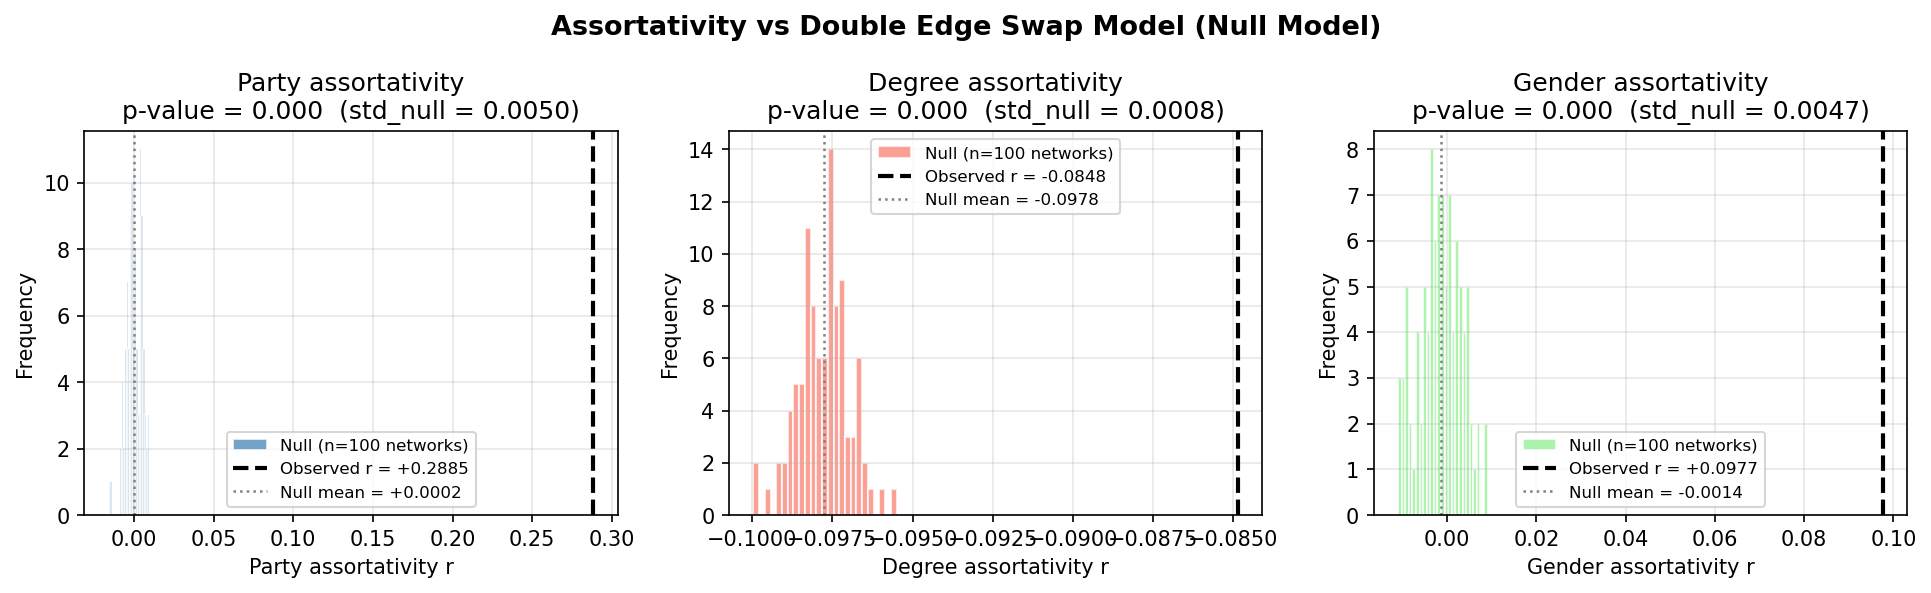
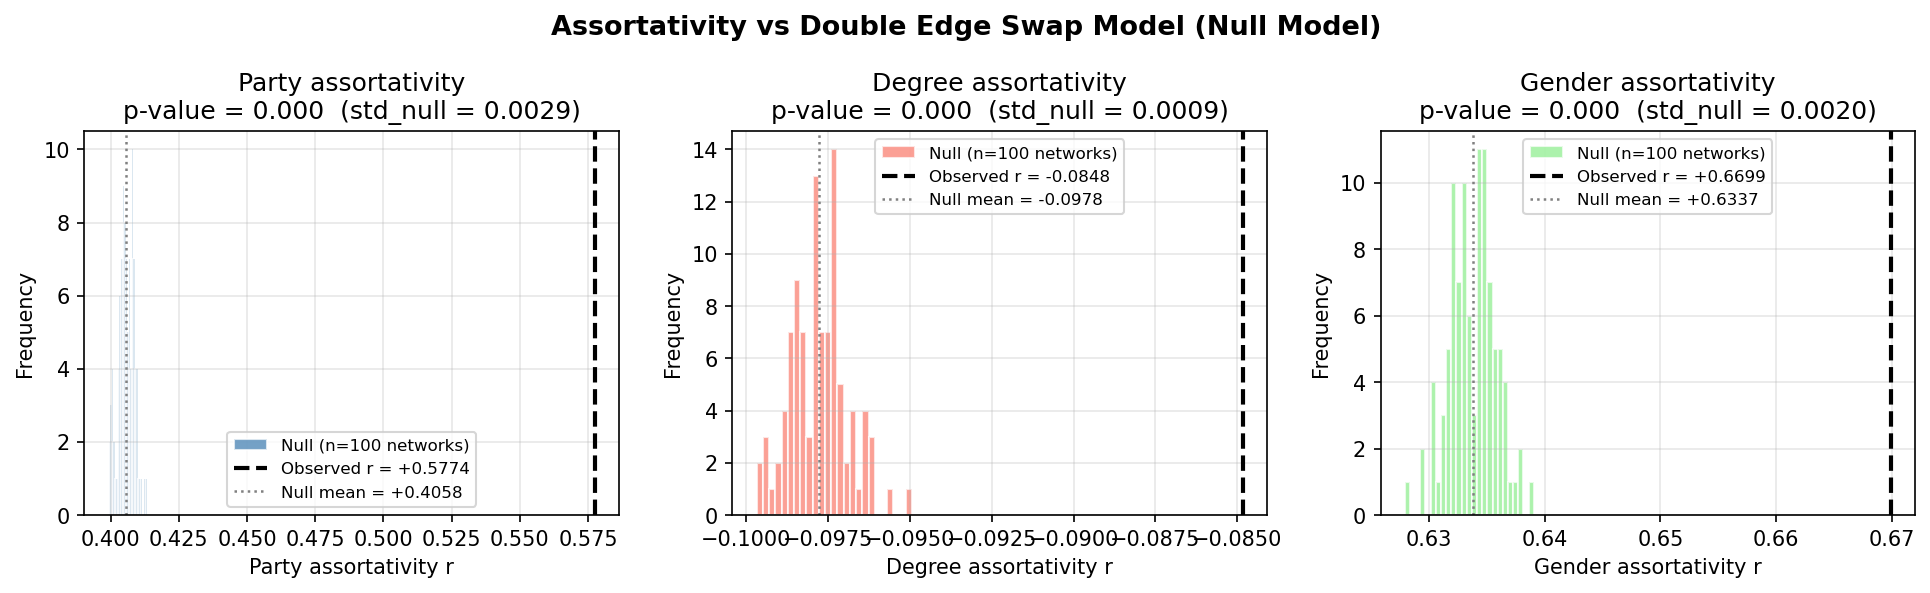
final

diff --git a/docs/index.html b/docs/index.html
@@ -338,13 +338,15 @@
       <figcaption>
         Each histogram shows assortativity values from 100 randomly rewired versions of the network
         (degree sequence preserved). The dashed line is the observed value.
-        <strong>Party (left):</strong> observed r&nbsp;=&nbsp;+0.29 sits far outside the null distribution
-        (null mean&nbsp;&approx;&nbsp;0, p&nbsp;=&nbsp;0.000). Party homophily is structural, not a
-        degree artefact.
-        <strong>Degree (middle):</strong> the network is slightly less hub-to-hub than the degree sequence
-        alone would predict.
-        <strong>Gender (right):</strong> observed r&nbsp;=&nbsp;+0.10 also exceeds the null
-        (p&nbsp;=&nbsp;0.000) &mdash; a small but genuine same-gender clustering effect.
+        <strong>Party (left):</strong> observed r&nbsp;=&nbsp;+0.58 far exceeds the null mean of
+        +0.41 (p&nbsp;=&nbsp;0.000) &mdash; party homophily is a genuine structural feature, though
+        the degree sequence alone already explains a substantial portion of the clustering.
+        <strong>Degree (middle):</strong> the slight disassortativity (r&nbsp;=&nbsp;&minus;0.085)
+        is almost entirely explained by the degree sequence itself (null mean&nbsp;=&nbsp;&minus;0.098)
+        &mdash; there is no meaningful hub-avoidance beyond what the scale-free structure already implies.
+        <strong>Gender (right):</strong> observed r&nbsp;=&nbsp;+0.67 exceeds the null mean of +0.63
+        (p&nbsp;=&nbsp;0.000) &mdash; a small but genuine same-gender clustering effect, though much
+        of the apparent homophily is a degree artefact.
       </figcaption>
     </figure>
 
@@ -602,11 +604,12 @@
       <div class="prose">
         <h3>2. Partly &mdash; communities reflect geography and era more than party</h3>
         <p>
-          Party predicts individual links (assortativity +0.29) but does not cleanly determine
-          community membership. The median community is only 56% one party. The stronger
-          organising forces are national prominence (presidents and party leaders cluster
-          together regardless of affiliation) and geography (state-level politicians cluster
-          by where they governed).
+          Party predicts individual links (assortativity r&nbsp;=&nbsp;+0.58, well above the null
+          mean of +0.41) but does not cleanly determine community membership. The median community
+          is only 56% one party. The stronger organising forces are national prominence (presidents
+          and party leaders cluster together regardless of affiliation) and geography (state-level
+          politicians cluster by where they governed). Degree and gender assortativity, while
+          statistically significant, are largely explained by the degree sequence itself.
         </p>
       </div>
     </div>